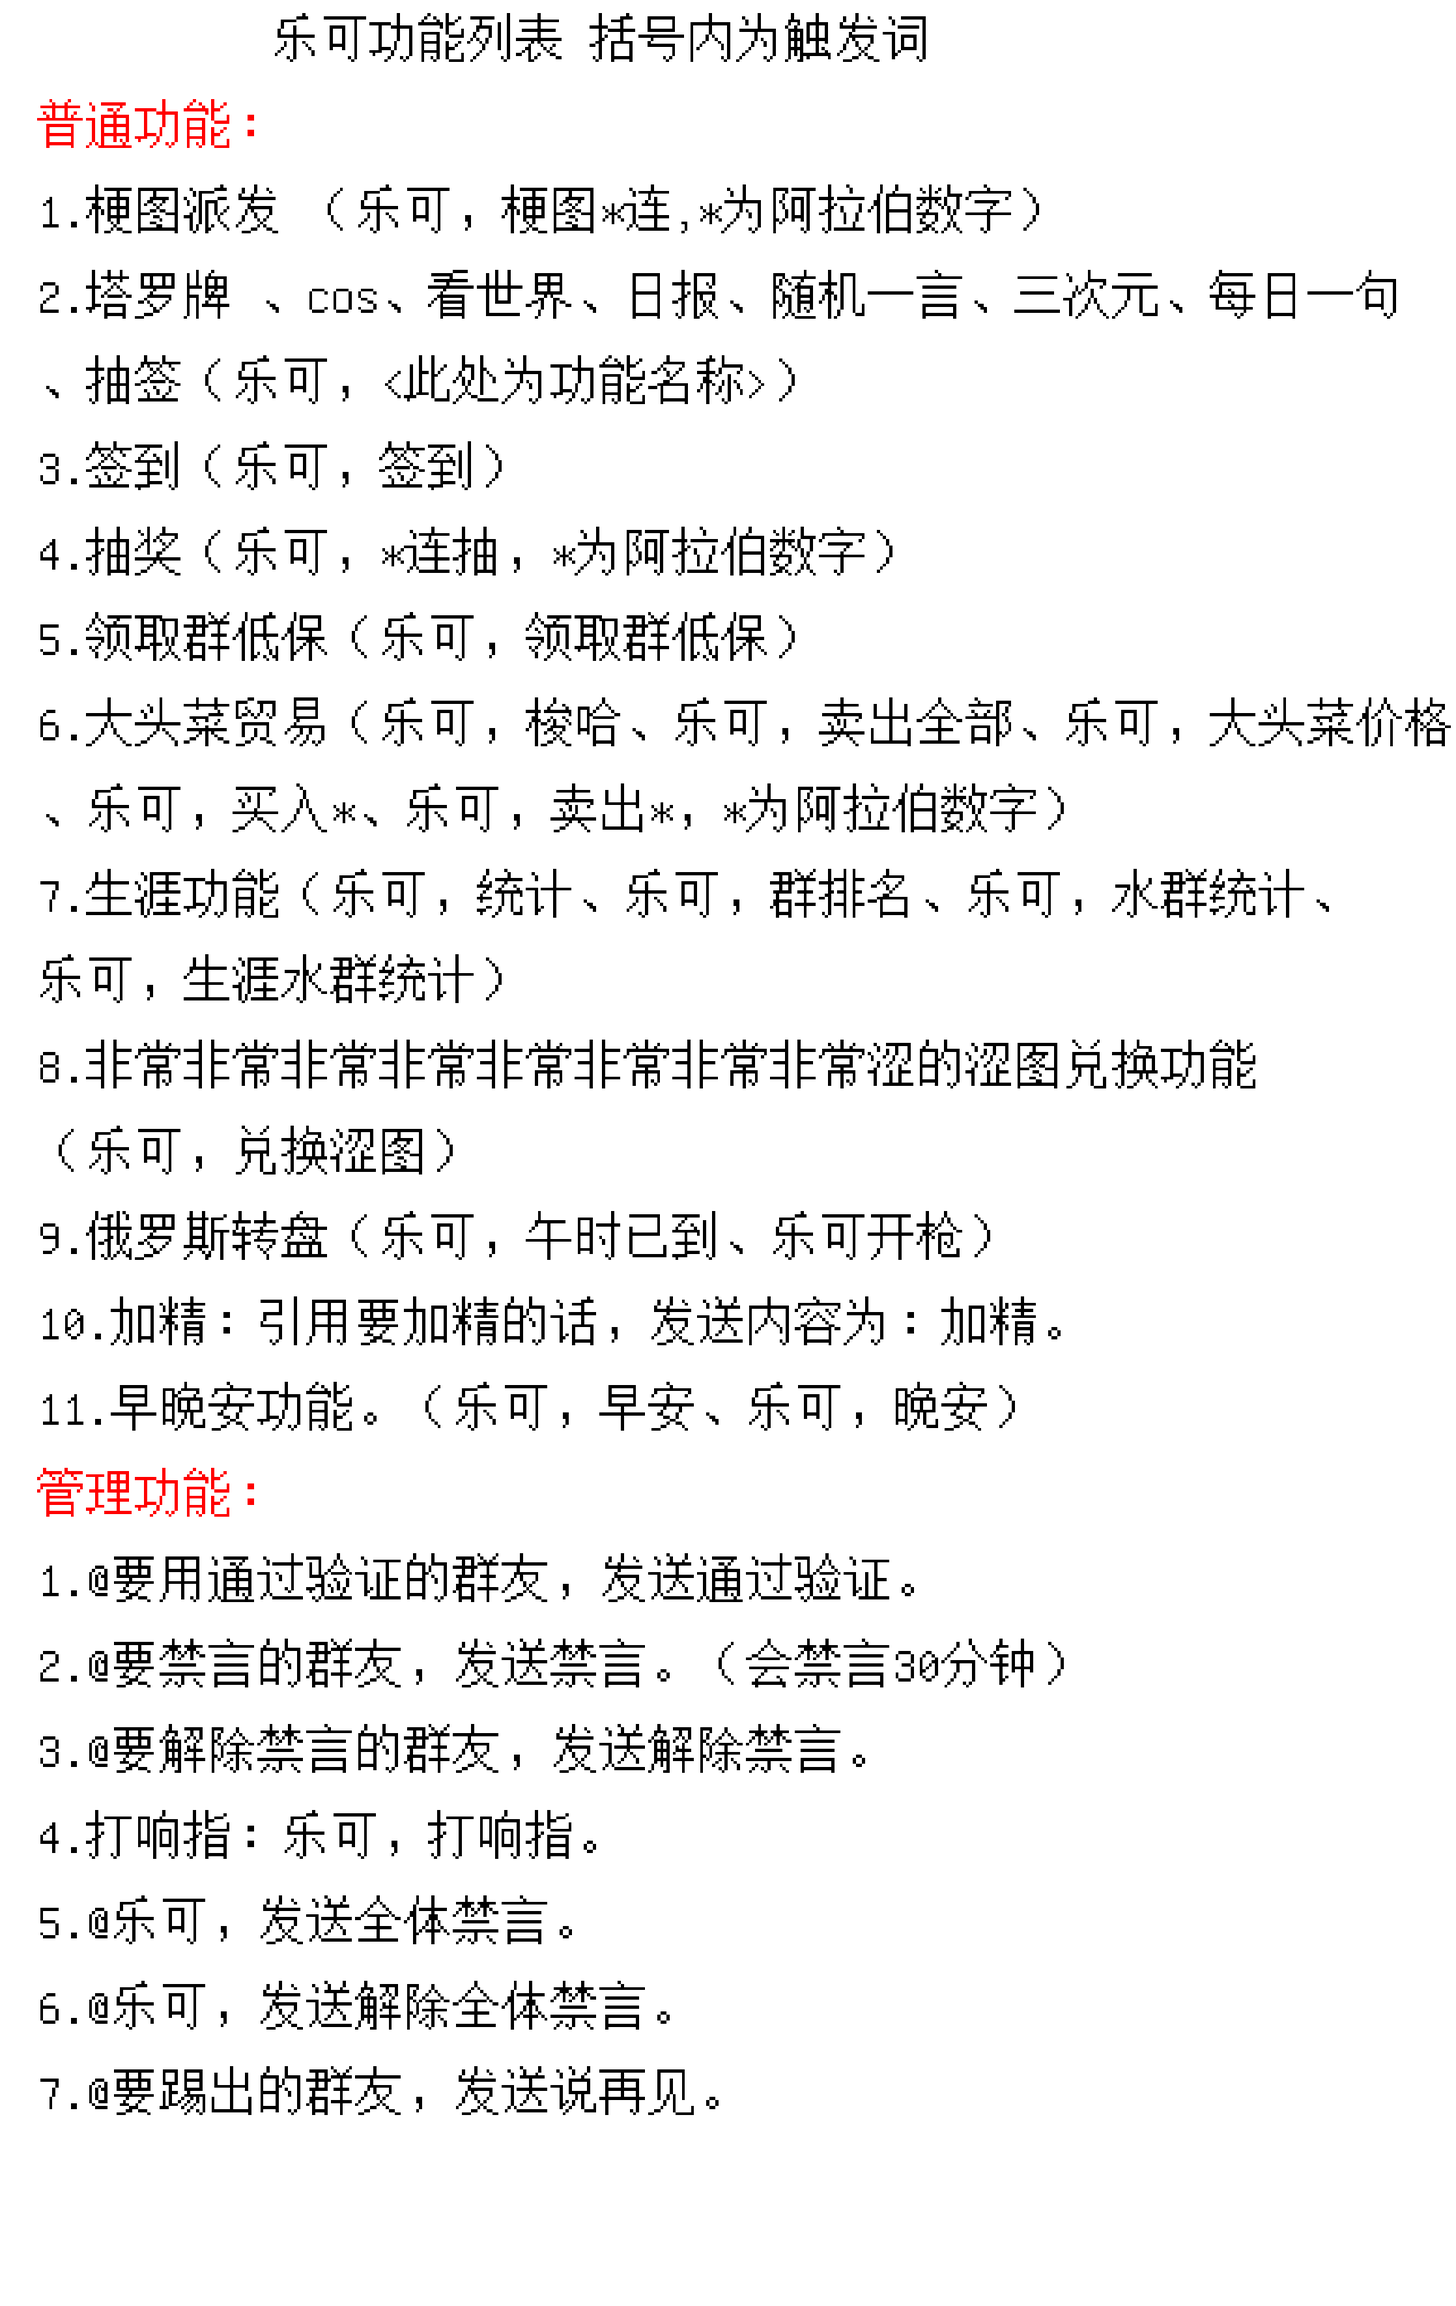
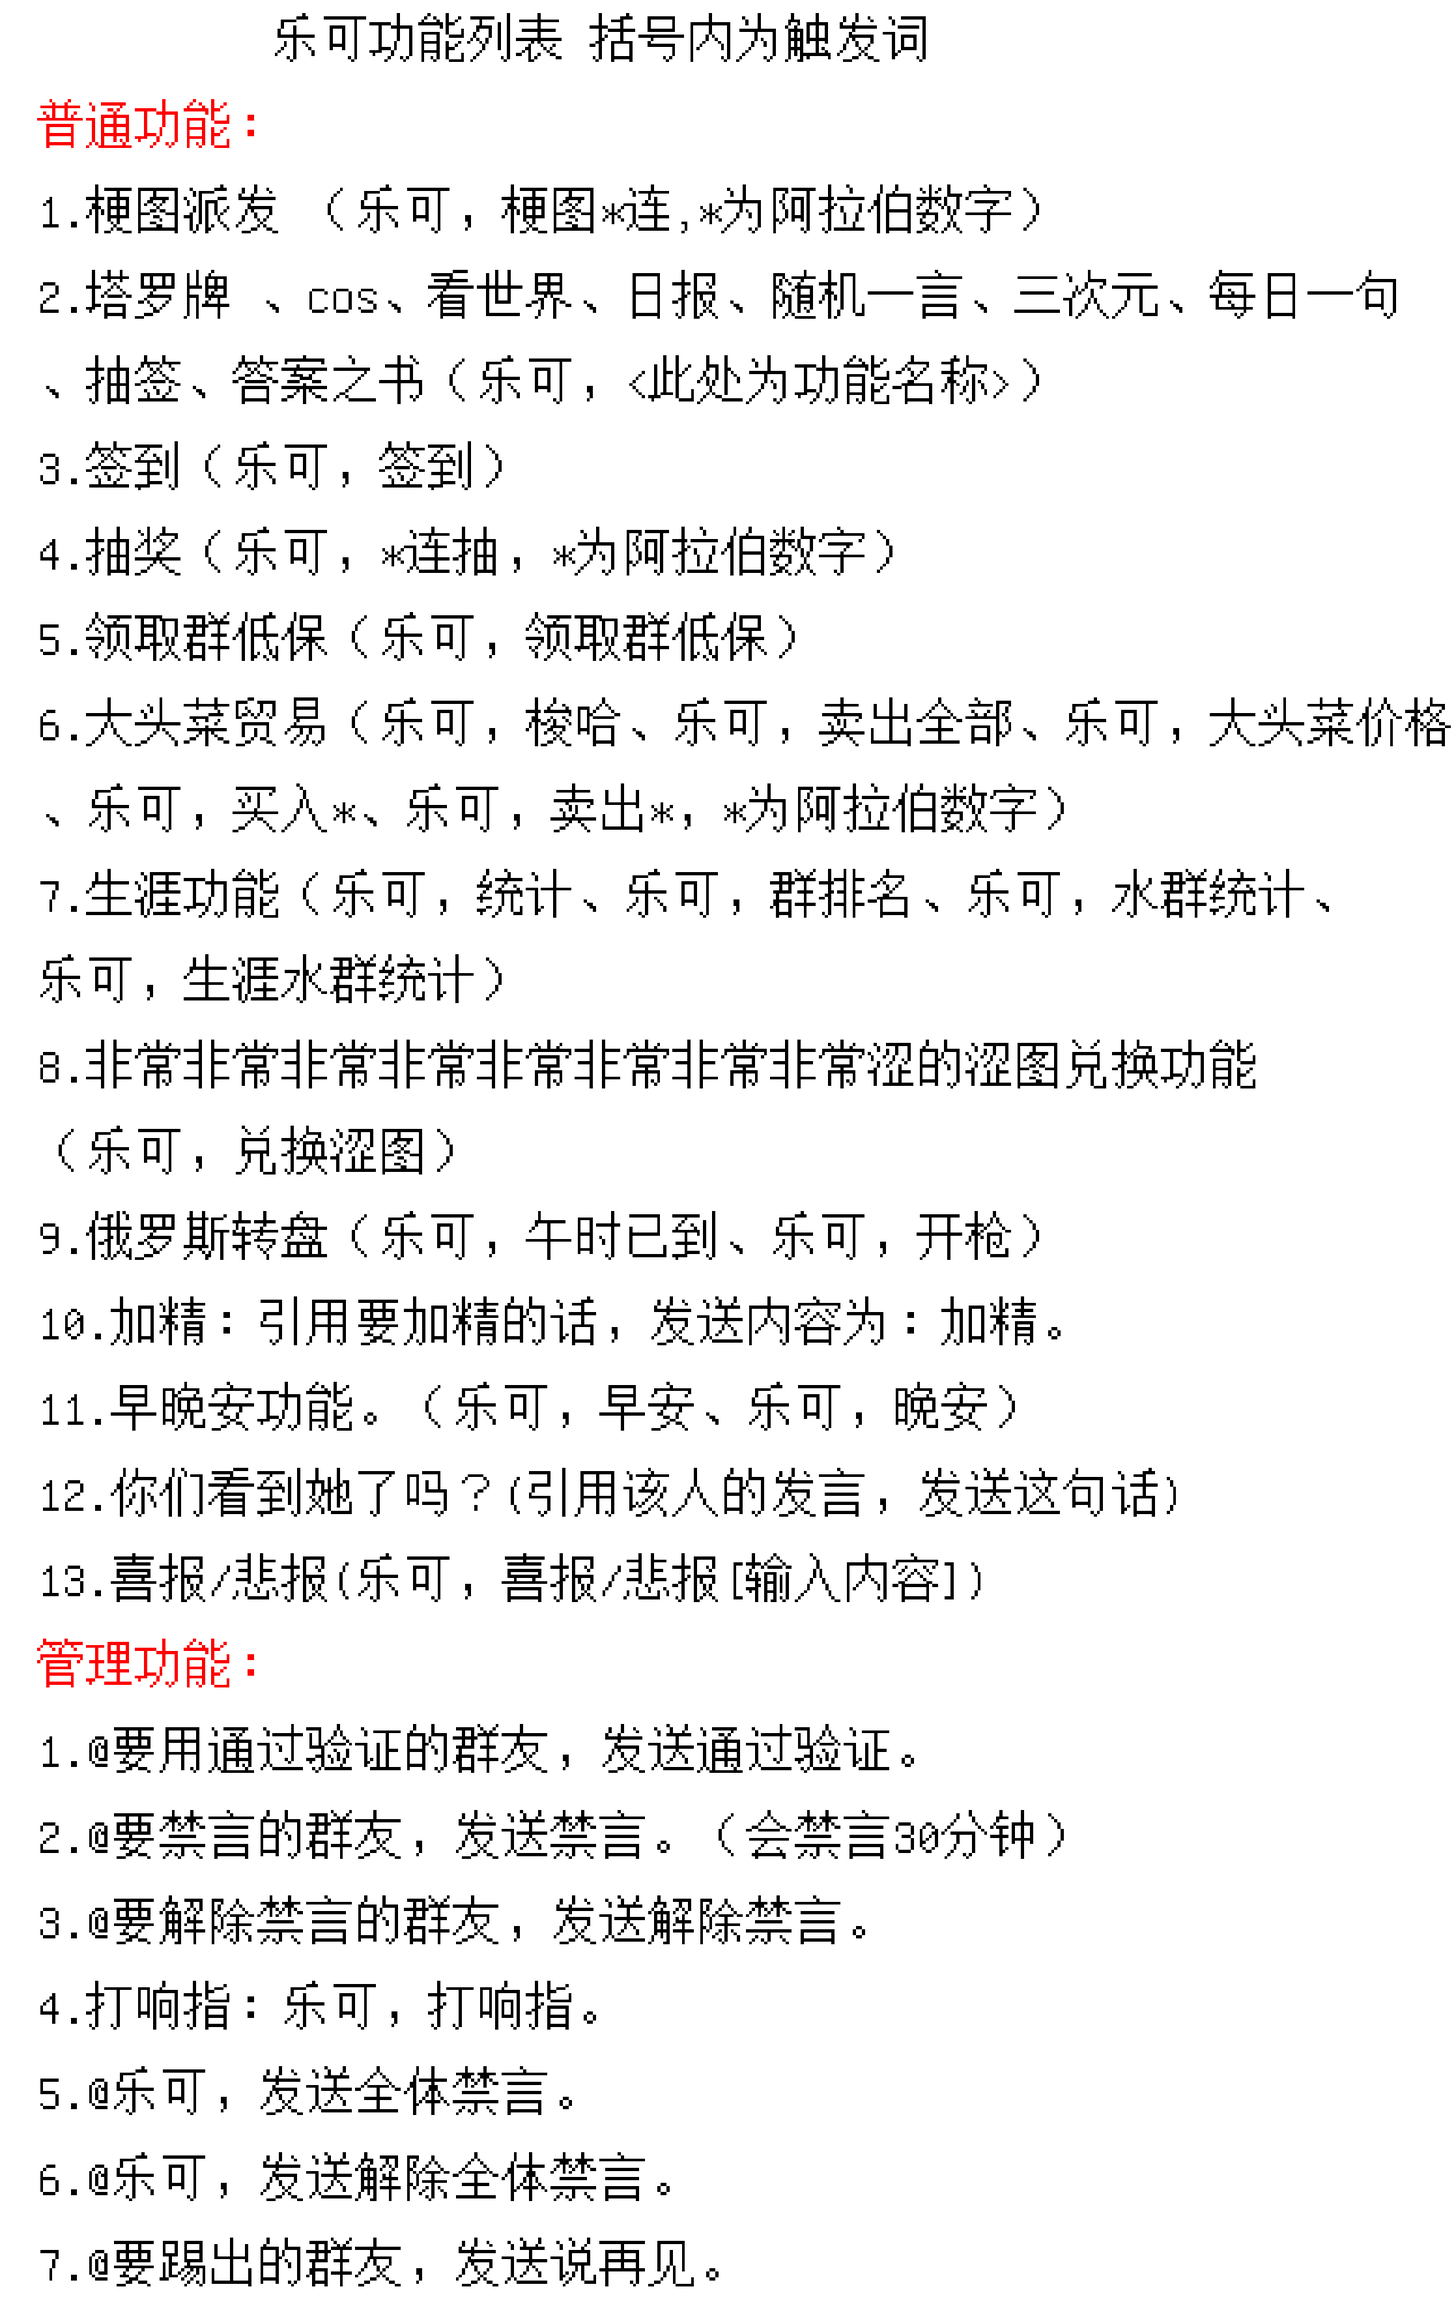
feat(group_operate): 新增群聊互动功能
- 新增 GetMessage 函数用于获取指定消息
- 新增 HasAllKeyWords 函数用于判断消息中是否包含所有关键词
- 在 main.py 中集成新功能
- 更新 group_operate.py 中的导入信息
- 新增 SoCute、SoHappy、SoSad 和 AnswerBook 等互动功能

diff --git a/main.py b/main.py
@@ -26,7 +26,14 @@ from bot_database import (
     write_message,
 )
 from chat import chat
-from kohlrabi import BuyKohlrabi, ClearKohlrabi, GetNowPrice, SellKohlrabi, ShowHand,SellKohlrabiAll
+from kohlrabi import (
+    BuyKohlrabi,
+    ClearKohlrabi,
+    GetNowPrice,
+    SellKohlrabi,
+    ShowHand,
+    SellKohlrabiAll,
+)
 import luck_dog
 from easter_egg import (
     cute,
@@ -44,6 +51,7 @@ from group_operate import (
     DeleteEssenceMsg,
     SetEssenceMsg,
     update_group_info,
+    GetMessage,
 )
 from random_meme import (
     send_meme_merge_forwarding,
@@ -63,6 +71,10 @@ from tarot_cards import (
     radom_waifu,
     radom_real,
     one_word,
+    SoCute,
+    SoHappy,
+    SoSad,
+    AnswerBook,
 )
 from tools import (
     dump_setting,
@@ -330,31 +342,32 @@ async def echo(websocket):
                                 )
                                 and user_id in setting["developers_list"]
                             ):
-                                message_id = re.search(
-                                    r"\d+", message["raw_message"]
-                                ).group()
-                                payload = {
-                                    "action": "get_msg",
-                                    "params": {
-                                        "message_id": message_id,
-                                    },
-                                    "echo": "applaud",
-                                }
-                                await websocket.send(json.dumps(payload))
+                                message_id = re.findall(
+                                    r"CQ:reply,id=(\d+)", message["raw_message"]
+                                )[0]
+                                await GetMessage(websocket, message_id, "applaud")
                             elif re.search(
                                 r"CQ:reply,id=\d+]加精", message["raw_message"]
                             ):
-                                message_id = re.search(
-                                    r"\d+", message["raw_message"]
-                                ).group()
-                                await SetEssenceMsg(websocket,message_id)
+                                message_id = re.findall(
+                                    r"CQ:reply,id=(\d+)", message["raw_message"]
+                                )[0]
+                                await SetEssenceMsg(websocket, message_id)
                             elif re.search(
                                 r"CQ:reply,id=\d+]移除加精", message["raw_message"]
                             ) and IsAdmin(user_id, group_id):
-                                message_id = re.search(
-                                    r"\d+", message["raw_message"]
-                                ).group()
-                                await DeleteEssenceMsg(websocket,message_id)
+                                message_id = re.findall(
+                                    r"CQ:reply,id=(\d+)", message["raw_message"]
+                                )[0]
+                                await DeleteEssenceMsg(websocket, message_id)
+                            elif re.search(r"CQ:reply,id=\d+]", message["raw_message"]):
+                                message_id = re.findall(
+                                    r"CQ:reply,id=(\d+)", message["raw_message"]
+                                )[0]
+                                if HasAllKeyWords(
+                                    message["raw_message"], ["看到", "了", "你们"]
+                                ):
+                                    await GetMessage(websocket, message_id, "so_cute")
 
                             # 新入群验证
                             if "{}_{}.jpg".format(user_id, group_id) in os.listdir(
@@ -634,11 +647,12 @@ async def echo(websocket):
                                                 "低保"
                                                 in message["message"][0]["data"]["text"]
                                             ):
-                                                await  poor_point(websocket,
-                                                            user_id,
-                                                            group_id,
-                                                        )
-                                            
+                                                await poor_point(
+                                                    websocket,
+                                                    user_id,
+                                                    group_id,
+                                                )
+
                                             elif (
                                                 "抽签"
                                                 in message["message"][0]["data"]["text"]
@@ -793,10 +807,8 @@ async def echo(websocket):
                                                 in message["message"][0]["data"]["text"]
                                             ):
                                                 await SellKohlrabiAll(
-                                                        websocket,
-                                                        user_id,
-                                                        group_id
-                                                    )
+                                                    websocket, user_id, group_id
+                                                )
                                             elif (
                                                 "梗图二十"
                                                 in message["message"][0]["data"]["text"]
@@ -835,14 +847,14 @@ async def echo(websocket):
 
                                                 else:
                                                     nums = num
-                                                    for i in range(
-                                                        math.trunc(nums / 20.0)
-                                                    ):
-                                                        await send_meme_merge_forwarding(
-                                                            websocket, group_id, 20
-                                                        )
                                                     if nums > 20:
-                                                        await send_meme_merge_forwarding(
+                                                        for i in range(
+                                                            math.trunc(nums / 20.0)
+                                                        ):
+                                                            await send_meme_merge_forwarding(
+                                                                websocket, group_id, 20
+                                                            )
+                                                    await send_meme_merge_forwarding(
                                                             websocket,
                                                             group_id,
                                                             nums % 20,
@@ -1144,6 +1156,33 @@ async def echo(websocket):
                                                 await websocket.send(
                                                     json.dumps(payload)
                                                 )
+                                            elif (
+                                                "喜报"
+                                                in message["message"][0]["data"]["text"]
+                                            ):
+                                                text = re.findall(
+                                                    r"喜报.*?([\u4e00-\u9fa5]+).*?",
+                                                    message["message"][0]["data"][
+                                                        "text"
+                                                    ],
+                                                )[0]
+                                                await SoHappy(websocket, group_id, text)
+                                            elif (
+                                                "悲报"
+                                                in message["message"][0]["data"]["text"]
+                                            ):
+                                                text = re.findall(
+                                                    r"悲报.*?([\u4e00-\u9fa5]+).*?",
+                                                    message["message"][0]["data"][
+                                                        "text"
+                                                    ],
+                                                )[0]
+                                                await SoSad(websocket, group_id, text)
+                                            elif (
+                                                "答案之书"
+                                                in message["message"][0]["data"]["text"]
+                                            ):
+                                                await AnswerBook(websocket,user_id, group_id)
                                             else:
                                                 await chat(
                                                     websocket,
@@ -1503,6 +1542,11 @@ async def echo(websocket):
                     dump_setting(setting)
                     print("更新群列表完毕")
                     logging.info("更新群列表完毕")
+                case "so_cute":
+                    # print(message)
+                    group_id = message["data"]["group_id"]
+                    sender_id = message["data"]["sender"]["user_id"]
+                    await SoCute(websocket, sender_id, group_id)
                 case "applaud":
                     sender_id = message["data"]["sender"]["user_id"]
                     message_id = message["data"]["message_id"]
@@ -1545,6 +1589,17 @@ async def echo(websocket):
                 print(message)
 
 
+# 要求全部在
+def HasAllKeyWords(text: str, key_words: list) -> bool:
+    for key_word in key_words:
+        if key_word in text:
+            pass
+        else:
+            return False
+    return True
+
+
+# 有一个关键词即可
 def HasKeyWords(text: str, key_words: list) -> bool:
     for key_word in key_words:
         if key_word in text:

diff --git a/tarot_cards.py b/tarot_cards.py
@@ -35,6 +35,59 @@ async def daily_paper(websocket, user_id: int, group_id: int):
     await websocket.send(json.dumps(payload))
 
 
+# 悲报
+async def SoSad(websocket, group_id: int, text: str):
+    payload = {
+        "action": "send_msg",
+        "params": {
+            "group_id": group_id,
+            "message": [
+                {
+                    "type": "image",
+                    "data": {"file": f"https://www.oexan.cn/API/beibao.php?msg={text}"},
+                },
+            ],
+        },
+    }
+    await websocket.send(json.dumps(payload))
+
+
+# 喜报
+async def SoHappy(websocket, group_id: int, text: str):
+    payload = {
+        "action": "send_msg",
+        "params": {
+            "group_id": group_id,
+            "message": [
+                {
+                    "type": "image",
+                    "data": {"file": f"https://api.tangdouz.com/wz/xb.php?nr={text}"},
+                },
+            ],
+        },
+    }
+    await websocket.send(json.dumps(payload))
+
+
+# 你们看到她了吗
+async def SoCute(websocket, user_id: int, group_id: int):
+    payload = {
+        "action": "send_msg",
+        "params": {
+            "group_id": group_id,
+            "message": [
+                {
+                    "type": "image",
+                    "data": {
+                        "file": f"https://api.tangdouz.com/wz/cute.php?q={user_id}"
+                    },
+                },
+            ],
+        },
+    }
+    await websocket.send(json.dumps(payload))
+
+
 # 塔罗牌
 def get_tarot_cards():
     r = requests.get("https://api.tangdouz.com/tarot.php")
@@ -179,6 +232,27 @@ async def return_trarot_cards(websocket, user_id: int, group_id: int):
                             text[2].split("\\r")[0], text[2].split("\\r")[1]
                         )
                     },
+                },
+            ],
+        },
+    }
+    # print(payload)
+    await websocket.send(json.dumps(payload))
+
+
+# 抽签
+async def AnswerBook(websocket, user_id: int, group_id: int):
+    r = requests.get("https://api.tangdouz.com/answer.php")
+    # print(r.text)
+    payload = {
+        "action": "send_msg",
+        "params": {
+            "group_id": group_id,
+            "message": [
+                {"type": "at", "data": {"qq": user_id}},
+                {
+                    "type": "text",
+                    "data": {"text": "\n{}".format(r.text)},
                 },
             ],
         },

diff --git a/group_operate.py b/group_operate.py
@@ -1,6 +1,6 @@
 import sqlite3
 import time
-from Class.Group_member import IsAdmin,get_user_name
+from Class.Group_member import IsAdmin, get_user_name
 import bot_database
 import tools
 import json
@@ -49,6 +49,17 @@ def update_group_info(
             ),
         )
         conn.commit()
+
+
+async def GetMessage(websocket,message_id:int,echo:str):
+    payload = {
+        "action": "get_msg",
+        "params": {
+            "message_id": message_id,
+        },
+        "echo": echo,
+    }
+    await websocket.send(json.dumps(payload))
 
 
 # 发送获取群名单
@@ -115,7 +126,7 @@ async def kick_member(websocket, user_id: int, group_id: int):
 
 # 发群低保
 async def poor_point(websocket, user_id: int, group_id: int):
-    sender_name=get_user_name(user_id,group_id)
+    sender_name = get_user_name(user_id, group_id)
     now_point = bot_database.find_point(user_id)
     if now_point <= 0:
         conn = sqlite3.connect("bot.db")
